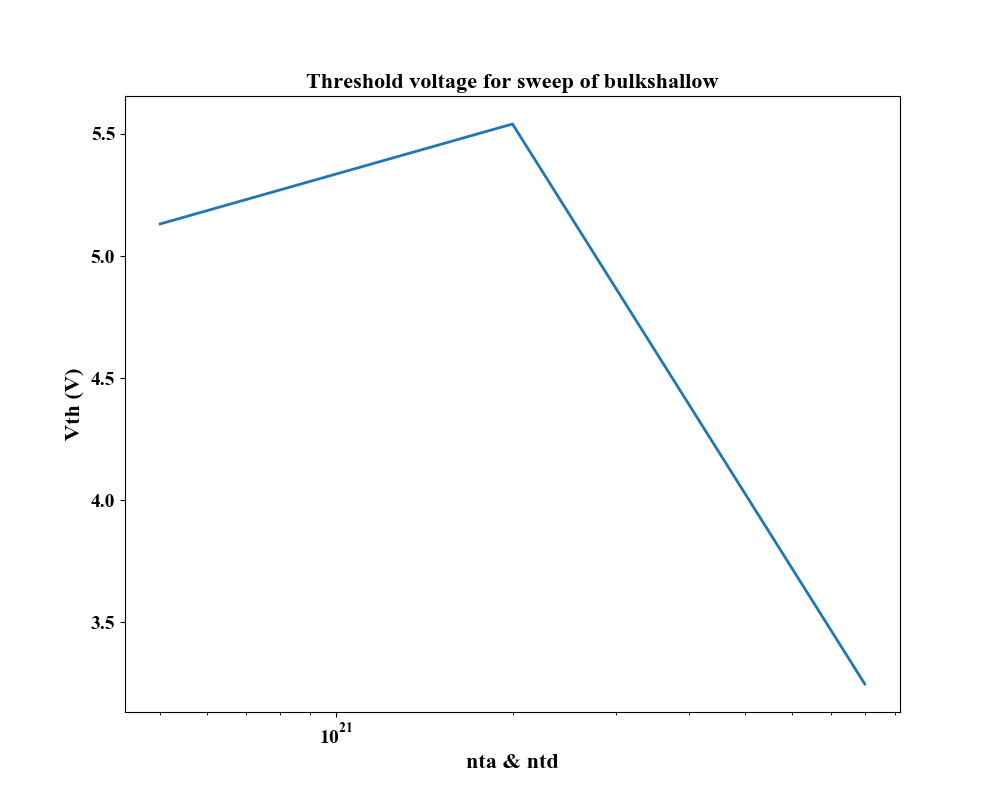
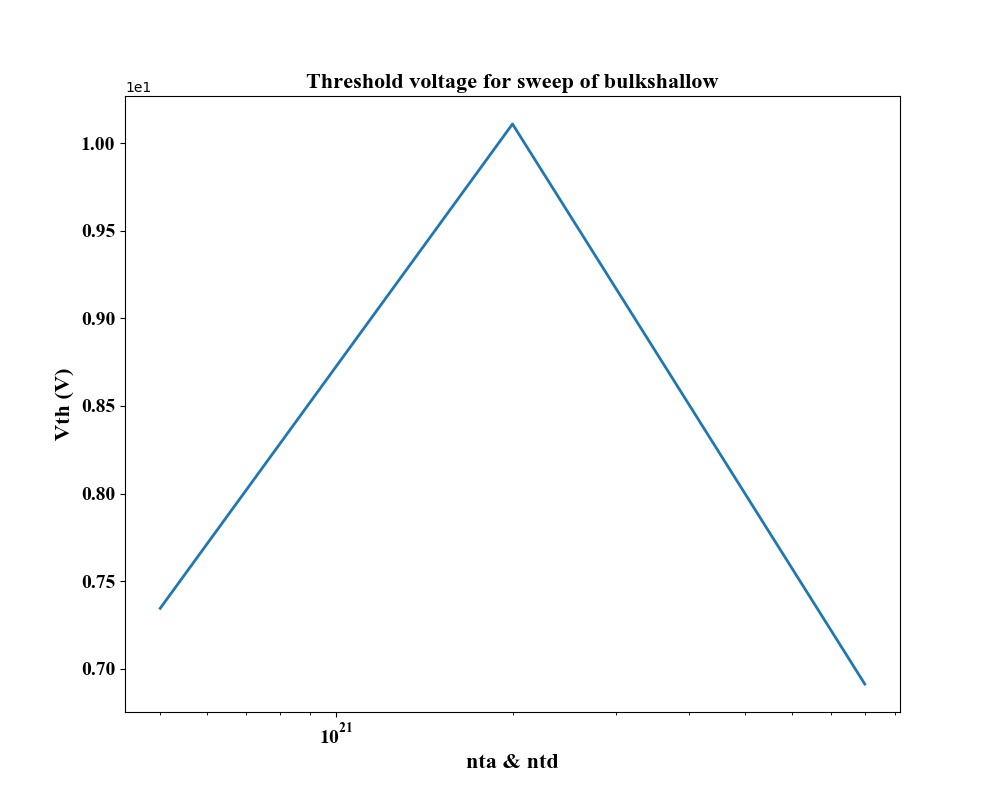
Re-plot Vth

diff --git a/DataProcess/Project_2.py b/DataProcess/Project_2.py
@@ -37,11 +37,11 @@ def main():
     transferPos_4 = list(filter(lambda x: x[14 : 17]=='Pos', files_4))
 
     # plot_trap_1(root_1, trap_int, name_1)
-    plot_trap_2(root_2, trap_bulk_acc, trap_bulk_don, name_2)
+    # plot_trap_2(root_2, trap_bulk_acc, trap_bulk_don, name_2)
     # plot_trap_3(root_3, trap_bulk, trap_bulk_don, name_3)
 
     # plot_transfer(root_1, transferNeg_1, transferPos_1, name_1)
-    # plot_transfer(root_2, transferNeg_2, transferPos_2, name_2)
+    plot_transfer(root_2, transferNeg_2, transferPos_2, name_2)
     # plot_transfer(root_3, transferNeg_3, transferPos_3, name_3)
     # plot_transfer(root_4, transferNeg_4, transferPos_4, name_4)
 
@@ -121,8 +121,8 @@ def plot_transfer(root, transferNeg, transferPos, name):
     # print(transferNeg)
     # print(root)
     sweep_label = ['0', '0', '0']
-    Vth = np.zeros((1, 3), dtype = np.float)
     sweep = np.zeros((1, 3), dtype = np.float)
+    Vth = np.zeros((1, 3), dtype = np.float)
     if name == "interface":
         sweep_label[0] = "nta = 0.5e12"
         sweep_label[1] = "nta = 2e12"
@@ -130,6 +130,9 @@ def plot_transfer(root, transferNeg, transferPos, name):
         sweep[0, 0] = 0.5e12
         sweep[0, 1] = 2e12
         sweep[0, 2] = 8e12
+        Vth[0, 0] = 9.6749
+        Vth[0, 1] = 10.0399
+        Vth[0, 2] = 10.8379
         sweep_name = "nta"
     elif name == "bulkshallow":
         sweep_label[0] = "nta & ntd= 0.5e21"
@@ -138,6 +141,9 @@ def plot_transfer(root, transferNeg, transferPos, name):
         sweep[0, 0] = 0.5e21
         sweep[0, 1] = 2e21
         sweep[0, 2] = 8e21
+        Vth[0, 0] = 7.34496
+        Vth[0, 1] = 10.1087
+        Vth[0, 2] = 6.91284
         sweep_name = "nta & ntd"
     elif name == "bulkdeep":
         sweep_label[0] = "ngd = 0.5e16"
@@ -146,6 +152,9 @@ def plot_transfer(root, transferNeg, transferPos, name):
         sweep[0, 0] = 0.5e16
         sweep[0, 1] = 2e16
         sweep[0, 2] = 8e16
+        Vth[0, 0] = 10.1007
+        Vth[0, 1] = 10.0853
+        Vth[0, 2] = 10.025
         sweep_name = "ngd"
     else:
         sweep_label[0] = "Channel length = 15 um"
@@ -154,6 +163,9 @@ def plot_transfer(root, transferNeg, transferPos, name):
         sweep[0, 0] = 15
         sweep[0, 1] = 30
         sweep[0, 2] = 60
+        Vth[0, 0] = 10.0271
+        Vth[0, 1] = 10.0399
+        Vth[0, 2] = 10.0463
         sweep_name = "Channel length"
 
     Vg = np.zeros((160, 3), dtype = np.float)
@@ -178,12 +190,6 @@ def plot_transfer(root, transferNeg, transferPos, name):
         tmp = np.array(tmp)
         Vg[60 :, num - 1] = tmp[:, 0]
         Id[60 :, num - 1] = tmp[:, 8]
-        parameter = np.polyfit(Vg[100 :, num - 1], Id[100 :, num - 1], 1)
-        f = np.poly1d(parameter)
-        Vth[0, num - 1] = f.r
-        # print(f)
-
-    # print(Vth)
 
     plt.figure(1, figsize = (10, 8))
     i = 0
@@ -222,7 +228,6 @@ def plot_transfer(root, transferNeg, transferPos, name):
     plt.show()
 
     plt.figure(3, figsize = (10, 8))
-
     plt.plot (sweep[0, :], Vth[0, :], linewidth = 2)
     ax = plt.gca()
     ax.yaxis.get_major_formatter().set_powerlimits((0, 1))
